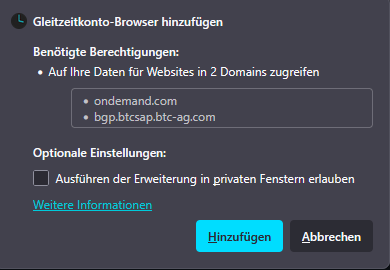
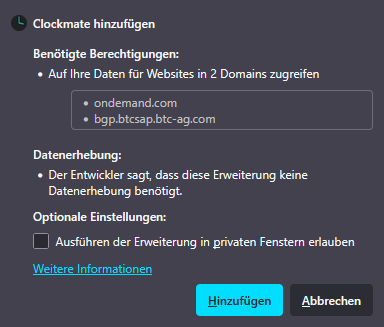
docs: update firefox installation process
new screenshot since firefox now shows pricacy information

Changed region(s): [[0.0625, 0.1481, 0.9688, 0.8593], [0.0, 0.8, 1.0, 1.0], [0.0312, 0.0593, 0.5938, 0.1185]]

diff --git a/docs/firefox-installation.md b/docs/firefox-installation.md
@@ -1,4 +1,4 @@
-1. In Firefox die neuste Datei herunterladen: [Clockmate-firefox.xpi](https://github.com/clock-mate/extension/releases/latest/download/Clockmate-firefox.xpi)
+1. In Firefox die neuste Datei herunterladen: [clockmate-firefox.xpi](https://github.com/clock-mate/extension/releases/latest/download/Clockmate-firefox.xpi)
 2. Das Installieren von Erweiterungen von Github erlauben. "Installation fortsetzen" klicken<br>
    ![Von Github Erweiterung installieren erlauben](../assets/firefow-allow-github-extension-install.png)
 3. Die Erweiterung hinzufügen. "Hinzufügen" klicken<br>
@@ -14,7 +14,7 @@
         <li>"Erweiterungen verwalten" Einstellungsrad klicken</li>
         <li>"Add-on aus Datei installieren..." klicken</li><br>
         <img src="../assets/firefox-installation.png" alt="Installation in Firefox" style="width: 70%;"><br>
-        <li>Zur heruntergeladenen Datei "Clockmate-firefox.xpi" navigieren und auswählen</li>
+        <li>Zur heruntergeladenen Datei "clockmate-firefox.xpi" navigieren und auswählen</li>
         <li>"Öffnen" klicken</li>
         <li>Die Erweiterung hinzufügen. "Hinzufügen" klicken</li><br>
         <img src="../assets/firefox-install-extension.png" alt="Erweiterung hinzufügen">
